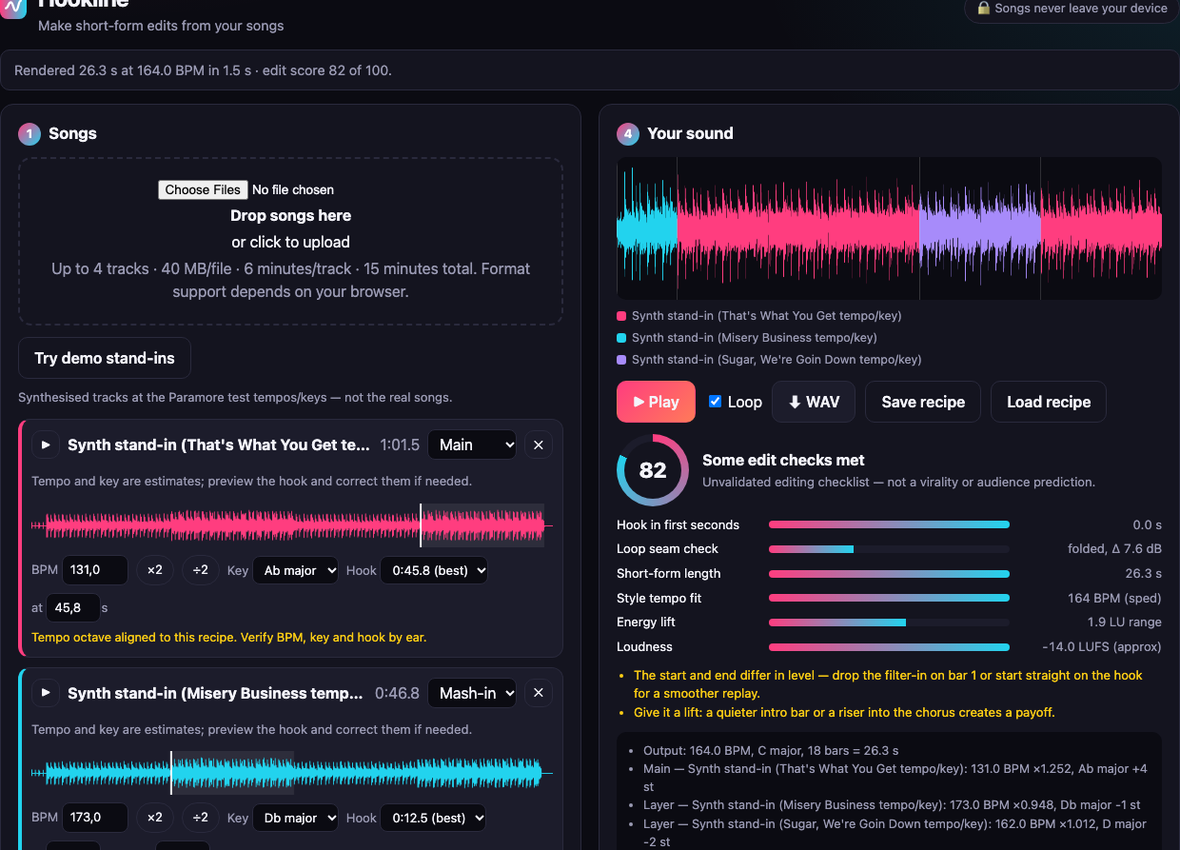
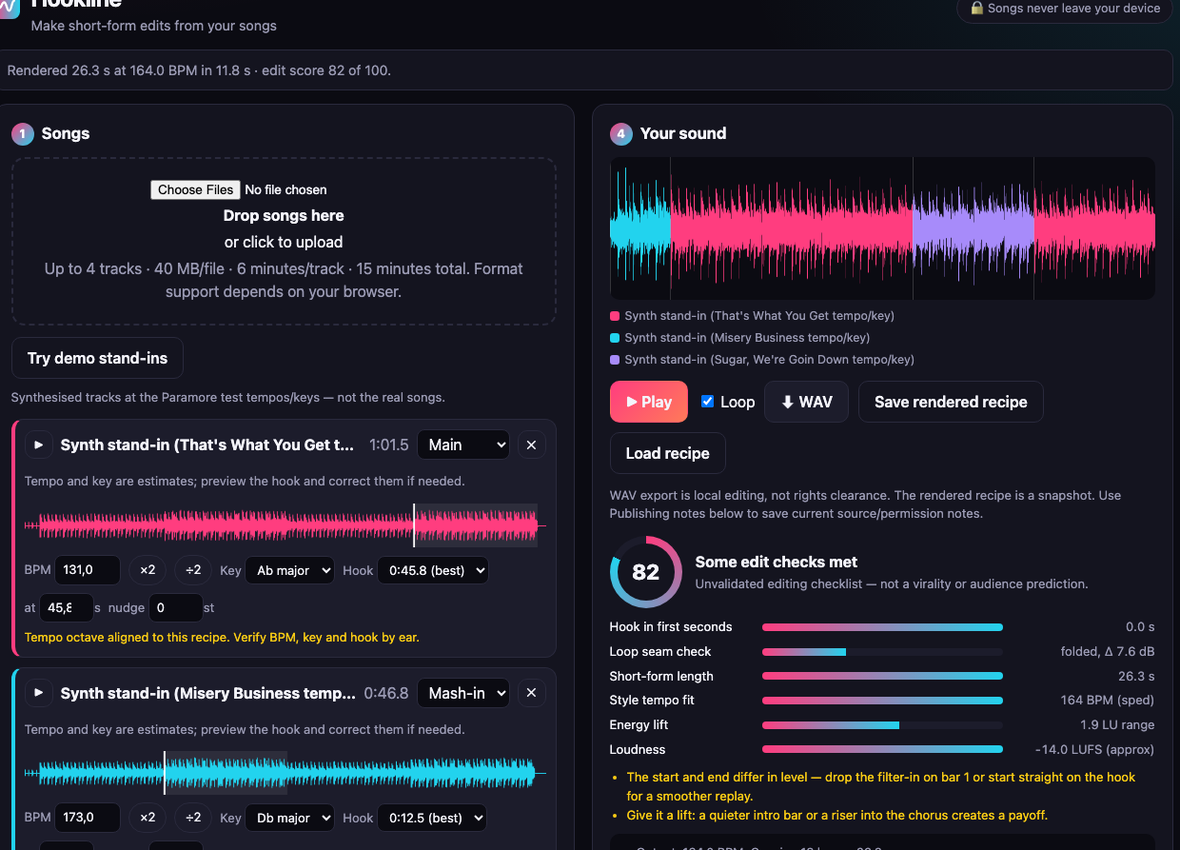
feat(hookline): update v1.2 portfolio capabilities and screenshot

diff --git a/index.html b/index.html
@@ -398,17 +398,16 @@
           </article>
           
           <article class="project-card" data-category="Software">
-            <img src="./assets/projects/hookline.png" alt="Hookline 1.1 browser remix studio showing synthetic tracks, coloured waveform and an explicitly unvalidated editing checklist" class="project-card-image" loading="lazy" decoding="async">
+            <img src="./assets/projects/hookline.png" alt="Hookline 1.2 browser remix studio using synthetic audio fixtures; editing tools do not supply music publishing rights" class="project-card-image" loading="lazy" decoding="async">
             <div class="project-content">
               <span class="project-category">Software</span>
               <h3 class="project-title">Hookline</h3>
-              <p class="project-description">Hookline is a private browser remix studio: upload your audio, give a rule-based request, adjust tempo and pitch independently, sequence and crossfade recordings, audition and export WAV. Version 1.1 adds validated upload/render limits, cancellable workers with recovery, portable recipes that preserve source identities and corrections, explicit Paramore recipe slots, and safer offline updates. Its editing checklist is unvalidated—not a virality prediction. No stem separation or external AI; automatic BPM/key/hook estimates need listening checks. A working browser prototype.</p>
+              <p class="project-description">Hookline is a private browser remix studio for user-provided audio: independent tempo/pitch controls, whole-track sequencing and crossfades, auditioning and WAV export. Version 1.2 adds publishing notes for permission basis, license references, credits, restrictions and intended platforms; they are user declarations, not rights clearance. Commercial-song titles are not an editing gate. Fixes include accurate coupled-pitch readouts, exact manual source starts and clearer automatic-arrangement controls. Portable recipes, bounded audio jobs and worker recovery remain built in. No licensed song catalogue, stem separation or proven virality prediction.</p>
               <div class="project-tags">
                 <span class="tag">Web Audio</span>
-                <span class="tag">browser DSP</span>
                 <span class="tag">private audio</span>
+                <span class="tag">publishing notes</span>
                 <span class="tag">portable recipes</span>
-                <span class="tag">worker recovery</span>
                 <span class="tag">PWA</span>
               </div>
               <div class="project-links">
